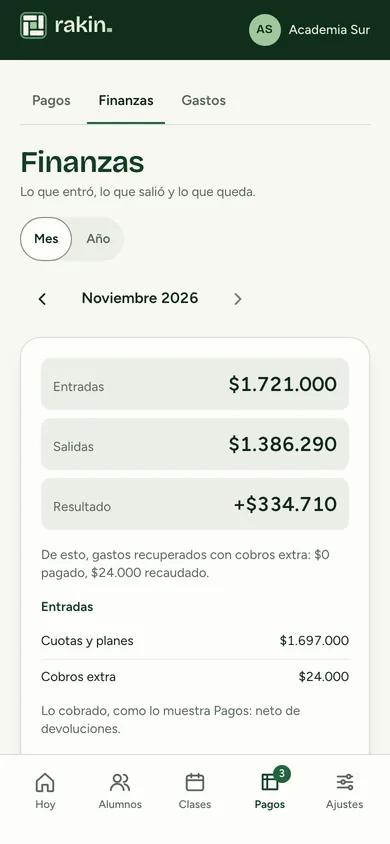
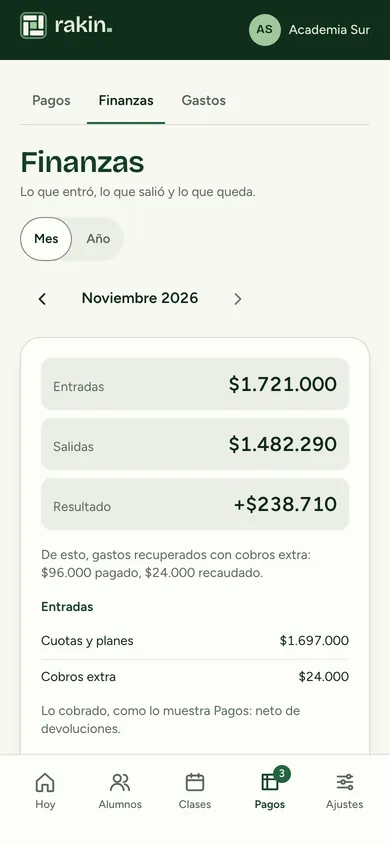
rakin.app: show what shipped since the second version: no zero on the Finanzas shot, and one image format for it (#563)
- The seed buys the polerones the month before their cuotas fall due, so its
  month on Finanzas read "gastos recuperados: $0 pagado". The neutral scene now
  buys them on the month's first day (`POLERONES_THIS_MONTH`), and the academia
  scene, which runs last, puts them back on the seed's date, so the stack is
  left as `make seed` made it. `Scene.data` carries the SQL. The shot's `alt`
  follows the new Salidas and Resultado.
- `finanzas-390` is WebP only, like the other step shots: the step and the
  sticky phone share one `srcset`, so the screen is fetched once. The `AVIF`
  set, its files and its line in docs/deploy.md are gone.

diff --git a/site/index.html b/site/index.html
@@ -155,13 +155,10 @@
                   </p>
                 </div>
                 <figure class="phone phone--full step__shot">
-                  <picture>
-                    <img
-                      data-shot="finanzas-390"
-                      sizes="(min-width: 373px) 302px, calc(86vw - 18px)"
-                      alt="Finanzas en el teléfono: en noviembre entraron 1.721.000 pesos y salieron 1.386.290, con un resultado de 334.710, y los gastos recuperados con cobros extra."
-                    />
-                  </picture>
+                  <img
+                    data-shot="finanzas-390"
+                    alt="Finanzas en el teléfono: en noviembre entraron 1.721.000 pesos y salieron 1.482.290, con un resultado de 238.710, y los gastos recuperados con cobros extra."
+                  />
                 </figure>
               </li>
               <li class="step" data-step="3">

diff --git a/site/screenshots.py b/site/screenshots.py
@@ -7,7 +7,7 @@
     docker compose up -d --wait && make seed
     uv run --with playwright==1.65.2 playwright install chromium   # once
     uv run site/screenshots.py [--scene NAME]... [--only NAME]...
-    uv run site/screenshots.py --hero   # the hero's widths and the AVIFs again, from the 2× on disk
+    uv run site/screenshots.py --hero   # the hero's widths again, from the 2× on disk
 
 Writes, for each shot, `site/img/<name>-2x.webp` and `<name>-1x.webp`, the screen
 taken at 2× (a phone at 390×844, a computer at 1280×800) and cropped to what the shot
@@ -76,9 +76,6 @@ DESKTOP = {"viewport": {"width": 1280, "height": 800}, "device_scale_factor": 2}
 # The hero's captures (#461), and the scales each comes in beside 1× and 2×: the
 # computer's shows 900 CSS pixels wide, the phone's 302.
 HERO = {"hoy-1280": (0.75, 1.5), "hoy-390": (1.5,)}
-# Shots added since (#563) come in AVIF too, at 1× and 2× only: the page shows them in a
-# `<picture>` with `sizes`, like the hero, but lazy.
-AVIF = {"finanzas-390": ()}
 
 # Words that would make the page read as a martial-arts app. In the neutral scene a
 # shot whose screen holds one of them fails, so a seed or screen change cannot slip
@@ -104,6 +101,7 @@ UPDATE class_type SET name = {open_mat} WHERE kind = 'open_mat';
 UPDATE block_kind SET name = {practice} WHERE is_sparring;
 UPDATE block_kind SET name = {drilling}
     WHERE id = md5(gym_id::text || '/block_kind/drilling')::uuid;
+{data}
 COMMIT;
 """
 
@@ -200,6 +198,8 @@ class Scene:
     shots: tuple[Shot, ...] = ()
     loops: tuple[Loop, ...] = ()
     sport_free: bool = False
+    # More SQL for the scene's shots, run in the same transaction.
+    data: str = ""
 
     def sql(self) -> str:
         def lit(value: object) -> str:
@@ -219,6 +219,7 @@ class Scene:
             open_mat=lit(self.open_mat),
             practice=lit(self.practice),
             drilling=lit(self.drilling),
+            data=self.data,
         )
 
 
@@ -289,6 +290,16 @@ def take_attendance(rec: Recorder) -> None:
     rec.hold(1.4)
 
 
+# The polerones the seed's cobro extra pays back (backend/app/seed/build.py, `_expenses`)
+# are bought the month before their cuotas fall due, so the seed's month on Finanzas
+# reads "gastos recuperados: $0 pagado". The neutral scene buys them on the month's
+# first day, and the academia scene puts them back on the seed's date: its as-of date,
+# plus the cobro's `due_in` (-10 days), less 25.
+POLERONES = "UPDATE expense SET spent_on = {day} WHERE extra_charge_id IS NOT NULL"
+AS_OF = "(SELECT (settings #>> '{seed,as_of}')::date FROM gym WHERE slug = 'academia-sur')"
+POLERONES_THIS_MONTH = POLERONES.format(day=f"date_trunc('month', {AS_OF})::date") + ";"
+POLERONES_AS_SEEDED = POLERONES.format(day=f"{AS_OF} - 35") + ";"
+
 NEUTRAL_WORDS = None  # today's: academia, alumnos, profe
 
 SCENES = (
@@ -303,6 +314,7 @@ SCENES = (
         practice="Práctica libre",
         drilling="Ejercicios",
         sport_free=True,
+        data=POLERONES_THIS_MONTH,
         shots=(
             # The hero: Hoy on the computer, and on the phone.
             Shot("hoy-1280", OWNER, "/admin", DESKTOP),
@@ -422,6 +434,7 @@ SCENES = (
         open_mat="Open mat",
         practice="Sparring",
         drilling="Drilling",
+        data=POLERONES_AS_SEEDED,
         shots=(
             Shot(
                 "actividad-academia-390",
@@ -581,14 +594,14 @@ def save(image: Image.Image, name: str) -> None:
     half = image.resize((image.width // 2, image.height // 2), Image.Resampling.LANCZOS)
     half.save(IMG / f"{name}-1x.webp", "WEBP", quality=82, method=6)
     print(f"ok   - {name} ({half.width}×{half.height})")
-    if name in HERO or name in AVIF:
+    if name in HERO:
         hero(image, name)
 
 
 def hero(image: Image.Image, name: str) -> None:
     """The hero's widths of the 2× capture `image`: WebP at the scales `save` does not
     write, and AVIF at every one."""
-    scales = sorted({1, 2, *{**HERO, **AVIF}[name]})
+    scales = sorted({1, 2, *HERO[name]})
     for scale in scales:
         size = (round(image.width * scale / 2), round(image.height * scale / 2))
         scaled = image if scale == 2 else image.resize(size, Image.Resampling.LANCZOS)
@@ -679,7 +692,7 @@ def main() -> None:
     )
     args = parser.parse_args()
     if args.hero:
-        for name in {**HERO, **AVIF}:
+        for name in HERO:
             hero(Image.open(IMG / f"{name}-2x.webp").convert("RGB"), name)
         return
     scenes = [s for s in SCENES if not args.scene or s.name in args.scene]

diff --git a/docs/deploy.md b/docs/deploy.md
@@ -192,7 +192,7 @@ uv run --with playwright==1.65.2 playwright install chromium   # once
 uv run site/screenshots.py            # or --only hoy-390, repeatable
 ```
 
-The hero's two screens, `hoy-390` and `hoy-1280`, are the page's LCP image (#461): the script also writes them at in-between widths and in AVIF, and the page preloads them. Shots added since (`AVIF` in the script, such as `finanzas-390`) also come in AVIF, at 1× and 2× only, and load lazily. `uv run site/screenshots.py --hero` writes those again from the 2× captures on disk, with no stack. The loops' posters are set by the page's script once the page has loaded, so they never share the line with the hero.
+The hero's two screens, `hoy-390` and `hoy-1280`, are the page's LCP image (#461): the script also writes them at in-between widths and in AVIF, and the page preloads them. `uv run site/screenshots.py --hero` writes those again from the 2× captures on disk, with no stack. The loops' posters are set by the page's script once the page has loaded, so they never share the line with the hero.
 
 The contact address is `CONTACT_EMAIL` in `site/build.py`.
 
